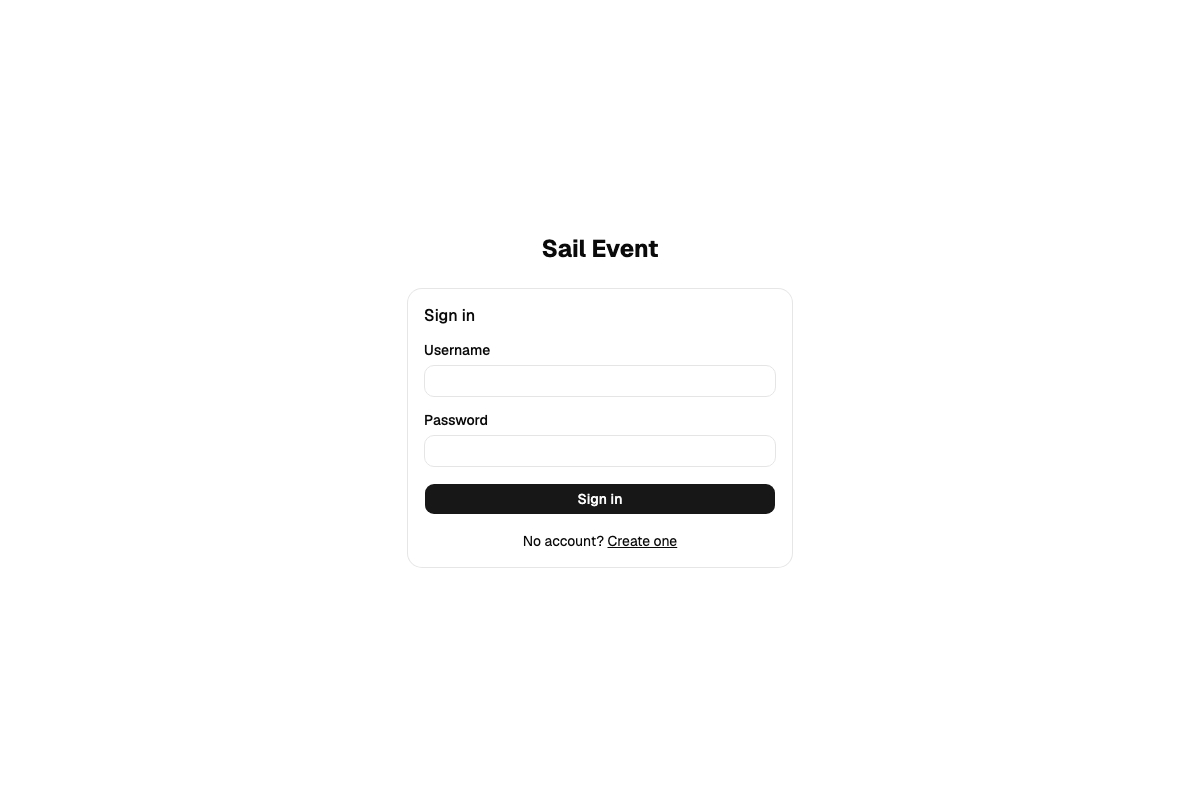
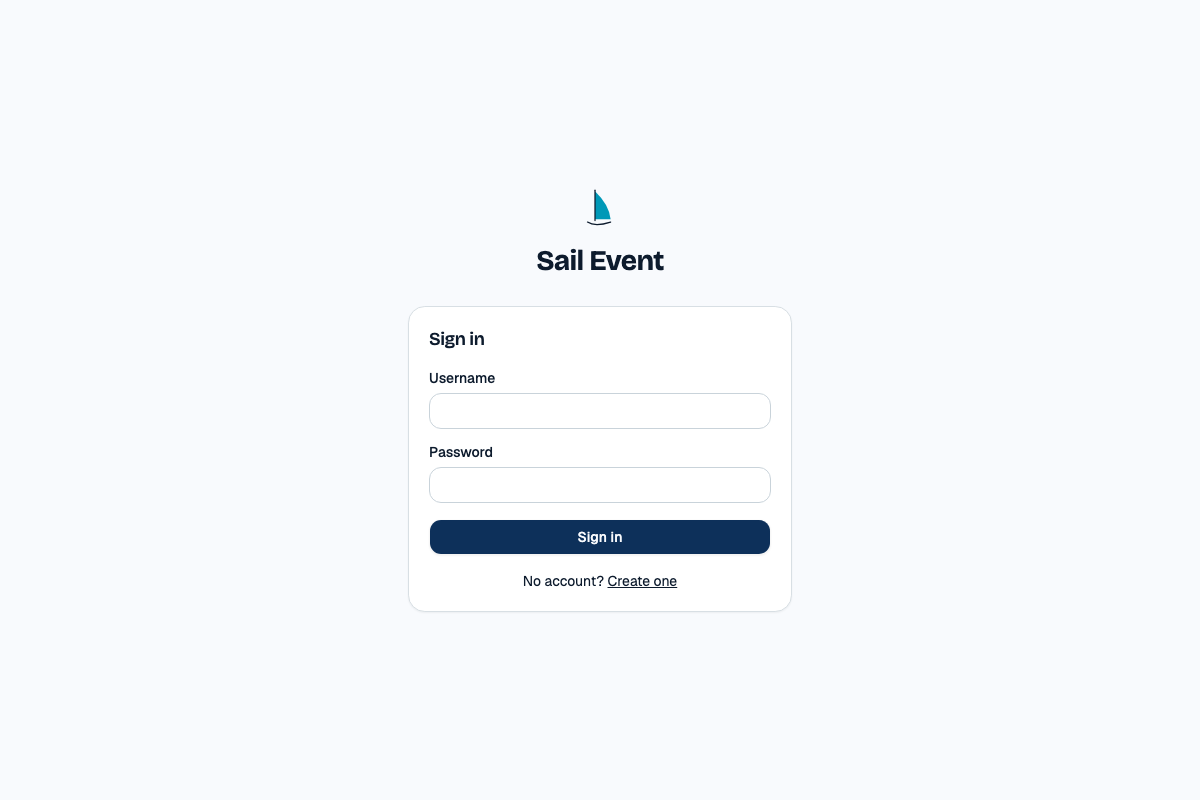
#50: motion, empty states, aria-busy, screenshots
- QueuePage/EventsPage empty states in dashed rounded-xl panel
- EventCard queue exit animation (leaving → animate-out, 200 ms setTimeout removal)
- handleDecide: await decideEvent, onQueueChange, fire-and-forget setTimeout
- Saved. and search result line animate-in fade-in
- Search now button aria-busy while searching
- Reduced-motion honoured via existing index.css rule (verified with Playwright)
- docs/images 01–04 re-captured on new theme, light mode

Changed region(s): [[0.3392, 0.375, 0.6475, 0.75], [0.4317, 0.25, 0.555, 0.3438]]

diff --git a/frontend/src/pages/MainPage.tsx b/frontend/src/pages/MainPage.tsx
@@ -169,7 +169,7 @@ export function MainPage({ onSearchComplete }: MainPageProps) {
               Save
             </Button>
             {criteriaSaved && (
-              <span role="status" className="text-sm font-medium text-accent-foreground">Saved.</span>
+              <span role="status" className="text-sm font-medium text-accent-foreground animate-in fade-in-0 duration-200">Saved.</span>
             )}
             {criteriaError && (
               <span className="text-sm text-destructive">{criteriaError}</span>
@@ -202,7 +202,7 @@ export function MainPage({ onSearchComplete }: MainPageProps) {
               Save
             </Button>
             {scoringSaved && (
-              <span role="status" className="text-sm font-medium text-accent-foreground">Saved.</span>
+              <span role="status" className="text-sm font-medium text-accent-foreground animate-in fade-in-0 duration-200">Saved.</span>
             )}
             {scoringError && (
               <span className="text-sm text-destructive">{scoringError}</span>
@@ -227,6 +227,7 @@ export function MainPage({ onSearchComplete }: MainPageProps) {
           )}
           <Button
             disabled={!criteriaText.trim() || searching}
+            aria-busy={searching ? true : undefined}
             onClick={handleSearch}
           >
             {searching ? 'Searching…' : 'Search now'}
@@ -235,7 +236,7 @@ export function MainPage({ onSearchComplete }: MainPageProps) {
             <p
               data-testid="search-result"
               role="status"
-              className={searchIsError ? 'text-sm text-destructive' : 'text-sm'}
+              className={searchIsError ? 'text-sm text-destructive' : 'text-sm animate-in fade-in-0 slide-in-from-top-1 duration-200'}
             >
               {searchResultText}
             </p>

diff --git a/frontend/src/pages/QueuePage.tsx b/frontend/src/pages/QueuePage.tsx
@@ -39,8 +39,8 @@ export function QueuePage({ onQueueChange }: QueuePageProps) {
     decision: 'accepted' | 'rejected',
   ) {
     await decideEvent(id, decision)
-    setQueuedEvents((prev) => prev.filter((e) => e.id !== id))
     onQueueChange?.()
+    setTimeout(() => setQueuedEvents((prev) => prev.filter((e) => e.id !== id)), 200)
   }
 
   return (
@@ -60,14 +60,14 @@ export function QueuePage({ onQueueChange }: QueuePageProps) {
         </>
       )}
       {!loading && !fetchError && queuedEvents.length === 0 && (
-        <>
-          <p className="font-medium">Nothing to decide right now.</p>
-          <p className="text-sm text-muted-foreground">
+        <div className="rounded-xl border border-dashed border-border bg-muted/40 px-6 py-10 text-center">
+          <p className="font-heading text-lg font-semibold">Nothing to decide right now.</p>
+          <p className="text-sm text-muted-foreground max-w-sm mx-auto mt-2 leading-relaxed">
             Events that clearly match go straight to your calendar. Events that
             clearly don&apos;t are rejected. When the app isn&apos;t sure, they
             appear here.
           </p>
-        </>
+        </div>
       )}
       {!loading &&
         !fetchError &&

diff --git a/frontend/src/components/EventCard.tsx b/frontend/src/components/EventCard.tsx
@@ -40,6 +40,7 @@ export function EventCard({ event, variant, onDecide }: EventCardProps) {
   const [deciding, setDeciding] = useState<'accepted' | 'rejected' | null>(
     null,
   )
+  const [leaving, setLeaving] = useState(false)
   const [error, setError] = useState('')
 
   async function handleDecide(decision: 'accepted' | 'rejected') {
@@ -47,6 +48,7 @@ export function EventCard({ event, variant, onDecide }: EventCardProps) {
     setError('')
     try {
       await onDecide?.(event.id, decision)
+      if (variant === 'queue') setLeaving(true)
     } catch {
       setError("Couldn't save your decision. Try again.")
       setDeciding(null)
@@ -85,7 +87,7 @@ export function EventCard({ event, variant, onDecide }: EventCardProps) {
 
   if (variant === 'queue') {
     return (
-      <Card data-testid={`event-card-${event.id}`}>
+      <Card data-testid={`event-card-${event.id}`} className={leaving ? 'animate-out fade-out-0 slide-out-to-right-2 fill-mode-forwards duration-200' : undefined}>
         <CardHeader>
           <p className="text-base leading-relaxed">
             <span className="font-semibold text-accent-foreground">Why: </span>

diff --git a/frontend/src/pages/EventsPage.tsx b/frontend/src/pages/EventsPage.tsx
@@ -57,13 +57,13 @@ export function EventsPage() {
         </>
       )}
       {!loading && !fetchError && events.length === 0 && (
-        <>
-          <p className="font-medium">No events yet.</p>
-          <p className="text-sm text-muted-foreground">
+        <div className="rounded-xl border border-dashed border-border bg-muted/40 px-6 py-10 text-center">
+          <p className="font-heading text-lg font-semibold">No events yet.</p>
+          <p className="text-sm text-muted-foreground max-w-sm mx-auto mt-2 leading-relaxed">
             Write what you&apos;re looking for on the Home tab, then press
             Search now.
           </p>
-        </>
+        </div>
       )}
       {!loading &&
         !fetchError &&
